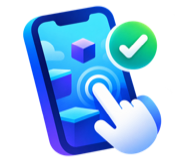
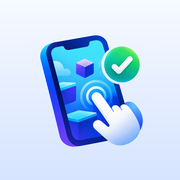
PlayGuard

diff --git a/apps/lab-console/src/i18n.tsx b/apps/lab-console/src/i18n.tsx
@@ -513,7 +513,7 @@ const en = {
   "help.team.title": "How to give colleagues access",
   "help.team.body": "Start the lab on one computer with “npm start” or the PlayGuard shortcut. A link appears in Settings → Team: send it to colleagues on the same Wi-Fi. They install nothing.\n\nThe history and reports are shared. AI keys, the depth of the checks and clearing the history are changed only by the person running the lab.",
   "help.storage.title": "Where the history is kept, and how to clear it",
-  "help.storage.body": "Reports, recordings and uploaded files are in the project folder on the computer that runs the lab. Settings → Storage shows how much they take, and deletes checks older than 30 days or everything.\n\nA single report is deleted in Reports, an archive in Builds, a recording in Recordings.",
+  "help.storage.body": "Reports, recordings and uploaded files are in the project folder on the computer that runs the lab. Settings → Storage shows how much they take, and deletes checks older than 30 days or everything.\n\nA single report is deleted in Reports, an archive in Builds.",
   "help.names.title": "Glossary",
   "help.names.body": "• Playable — an interactive ad, a small game in one HTML file or a ZIP.\n• Build — the version of a playable for one ad network.\n• Playthrough (recording) — one play of the playable that the lab repeats on other screens.\n• Install button (CTA) — the button that opens the app store.\n• Ad network — AppLovin, Unity, Meta, Google and others, each with its own rules.",
   "scope.title": "What to check",
@@ -683,6 +683,13 @@ const en = {
   "depth.wasQuick": "This was a quick check: stress, languages and old phones were not checked.",
   "depth.runFull": "Check fully before the release",
   "settings.depth.onlyFull": "Stress, languages and old phones run only in a full check (“Full, before a release”, chosen on step 2). A quick check before sending does the main screens only.",
+  "app.install.title": "PlayGuard as an app",
+  "app.install.text": "Install it and PlayGuard opens in its own window, with its icon in the Dock or the taskbar, like any program.",
+  "app.install.go": "Install PlayGuard",
+  "app.install.done": "Installed: PlayGuard opens as an app from the Dock or the Start menu.",
+  "app.install.manual": "In Chrome or Edge: the menu (⋮) → “Cast, save and share” → “Install page as app”, or the install icon at the right of the address bar.",
+  "app.install.safari": "In Safari: File → Add to Dock.",
+  "app.install.insecure": "Browsers install apps only from the computer that runs PlayGuard (address localhost), not over the office network. Install it there, or open the site in a tab here.",
   "error.UNKNOWN.advice": "Try again. If it repeats, send the technical details to a developer.",
 
   "check.size": "File size",
@@ -1255,7 +1262,7 @@ const ru: Record<Key, string> = {
   "help.team.title": "Как дать доступ коллегам",
   "help.team.body": "Программу достаточно запустить на одном компьютере командой «npm start» или ярлыком PlayGuard. В «Настройки → Команда» появится ссылка — отправьте её коллегам в той же сети Wi-Fi. Им ничего не нужно устанавливать.\n\nИстория и отчёты общие. Ключи AI, глубину проверки и очистку истории меняет только тот, у кого запущена программа.",
   "help.storage.title": "Где хранится история и как её очистить",
-  "help.storage.body": "Отчёты, записи и загруженные файлы лежат в папке проекта на компьютере, где запущена программа. Сколько они занимают, видно в «Настройки → Хранилище». Там же можно удалить проверки старше 30 дней или очистить всё.\n\nОтдельный отчёт удаляется в «Отчёты», архив — в «Сборки», запись — в «Записи».",
+  "help.storage.body": "Отчёты, записи и загруженные файлы лежат в папке проекта на компьютере, где запущена программа. Сколько они занимают, видно в «Настройки → Хранилище». Там же можно удалить проверки старше 30 дней или очистить всё.\n\nОтдельный отчёт удаляется в «Отчёты», архив — в «Сборки».",
   "help.names.title": "Словарь",
   "help.names.body": "• Плеебл — интерактивная реклама-мини-игра, один HTML-файл или ZIP.\n• Сборка — версия плеебла для одной рекламной сети.\n• Прохождение (запись) — одно прохождение плеебла, которое программа повторяет на других экранах.\n• Кнопка установки (CTA) — кнопка, которая открывает магазин приложений.\n• Рекламная сеть — AppLovin, Unity, Meta, Google и другие: у каждой свои правила.",
   "scope.title": "Что проверять",
@@ -1425,6 +1432,13 @@ const ru: Record<Key, string> = {
   "depth.wasQuick": "Это была быстрая проверка: устойчивость, языки и старые телефоны не проверялись.",
   "depth.runFull": "Проверить полностью перед релизом",
   "settings.depth.onlyFull": "Устойчивость, языки и старые телефоны проверяются только в полной проверке («Полно перед релизом», выбирается на шаге 2). Быстрая проверка перед отправкой проходит только основные экраны.",
+  "app.install.title": "PlayGuard как приложение",
+  "app.install.text": "После установки PlayGuard открывается в своём окне, с иконкой в Dock или на панели задач, как обычная программа.",
+  "app.install.go": "Установить PlayGuard",
+  "app.install.done": "Установлено: PlayGuard открывается как приложение из Dock или меню «Пуск».",
+  "app.install.manual": "В Chrome или Edge: меню (⋮) → «Трансляция, сохранение и отправка» → «Установить страницу как приложение», или значок установки справа в адресной строке.",
+  "app.install.safari": "В Safari: «Файл» → «Добавить в Dock».",
+  "app.install.insecure": "Браузеры устанавливают приложения только на компьютере, где запущен PlayGuard (адрес localhost), а не по офисной сети. Установите его там или пользуйтесь сайтом во вкладке.",
   "error.UNKNOWN.advice": "Попробуйте ещё раз. Если повторится, отправьте технические детали разработчику.",
 
   "check.size": "Размер файла",
@@ -1995,7 +2009,7 @@ const fr: Record<Key, string> = {
   "help.team.title": "Donner l'accès aux collègues",
   "help.team.body": "Lancez le lab sur un ordinateur avec « npm start » ou le raccourci PlayGuard. Un lien apparaît dans Réglages → Équipe : envoyez-le aux collègues sur le même Wi-Fi. Ils n'installent rien.\n\nL'historique et les rapports sont partagés. Les clés IA, la profondeur des vérifications et l'effacement de l'historique ne se règlent que sur l'ordinateur qui exécute le lab.",
   "help.storage.title": "Où est gardé l'historique, et comment l'effacer",
-  "help.storage.body": "Rapports, enregistrements et fichiers envoyés sont dans le dossier du projet, sur l'ordinateur qui exécute le lab. Réglages → Stockage montre la place prise et supprime les vérifications de plus de 30 jours, ou tout.\n\nUn rapport se supprime dans Rapports, une archive dans Builds, un enregistrement dans Enregistrements.",
+  "help.storage.body": "Rapports, enregistrements et fichiers envoyés sont dans le dossier du projet, sur l'ordinateur qui exécute le lab. Réglages → Stockage montre la place prise et supprime les vérifications de plus de 30 jours, ou tout.\n\nUn rapport se supprime dans Rapports, une archive dans Builds.",
   "help.names.title": "Glossaire",
   "help.names.body": "• Playable — une publicité interactive, un petit jeu dans un fichier HTML ou un ZIP.\n• Build — la version d'un playable pour un réseau publicitaire.\n• Partie (enregistrement) — une partie du playable que le lab rejoue sur d'autres écrans.\n• Bouton d'installation (CTA) — le bouton qui ouvre le store.\n• Réseau publicitaire — AppLovin, Unity, Meta, Google et d'autres, chacun avec ses règles.",
   "scope.title": "Quoi vérifier",
@@ -2165,6 +2179,13 @@ const fr: Record<Key, string> = {
   "depth.wasQuick": "C'était une vérification rapide : robustesse, langues et anciens téléphones n'ont pas été vérifiés.",
   "depth.runFull": "Vérifier complètement avant la sortie",
   "settings.depth.onlyFull": "Robustesse, langues et anciens téléphones ne tournent que dans une vérification complète (« Complète, avant la sortie », choisie à l'étape 2). Une vérification rapide avant l'envoi ne fait que les écrans principaux.",
+  "app.install.title": "PlayGuard comme application",
+  "app.install.text": "Une fois installé, PlayGuard s'ouvre dans sa propre fenêtre, avec son icône dans le Dock ou la barre des tâches, comme tout programme.",
+  "app.install.go": "Installer PlayGuard",
+  "app.install.done": "Installé : PlayGuard s'ouvre comme une application depuis le Dock ou le menu Démarrer.",
+  "app.install.manual": "Dans Chrome ou Edge : menu (⋮) → « Caster, enregistrer et partager » → « Installer la page en tant qu'application », ou l'icône d'installation à droite de la barre d'adresse.",
+  "app.install.safari": "Dans Safari : Fichier → Ajouter au Dock.",
+  "app.install.insecure": "Les navigateurs n'installent des applications que depuis l'ordinateur qui exécute PlayGuard (adresse localhost), pas via le réseau du bureau. Installez-le là-bas, ou utilisez le site dans un onglet.",
   "error.UNKNOWN.advice": "Réessayez. Si cela se reproduit, envoyez les détails techniques à un développeur.",
 
   "check.size": "Taille du fichier",

diff --git a/apps/lab-console/src/SettingsView.tsx b/apps/lab-console/src/SettingsView.tsx
@@ -9,6 +9,8 @@ import { Hint } from "./Hint";
 import { ConfirmDialog } from "./Dialogs";
 import { DEVICE_CATALOG, FORMAT_SET, platformOf } from "@playable-lab/device-catalog";
 import { LANGS, useI18n } from "./i18n";
+import { install, installState, onInstallChange } from "./install";
+import type { InstallState } from "./install";
 import { chime, finishSoundOn, mascotHidden, setFinishSound, setMascotHidden } from "./mascotBus";
 import { getName, setName } from "./identity";
 import { applyTheme, getTheme } from "./theme";
@@ -220,6 +222,35 @@ const LanguagesBlock = ({
       )}
       <p className="hint">{t("scope.languages.hint", { n: languages.chosen.length + 1 })}</p>
     </>
+  );
+};
+
+/** PlayGuard as an app on this computer: its own window, its own icon in the Dock or the taskbar. */
+const AppSection = () => {
+  const { t } = useI18n();
+  const [state, setState] = useState<InstallState>(installState);
+  useEffect(() => onInstallChange(() => setState(installState())), []);
+  const safari = /^((?!chrome|android|crios|fxios).)*safari/i.test(navigator.userAgent);
+  return (
+    <section className="app-install">
+      <h2>{t("app.install.title")}</h2>
+      <div className="app-install-row">
+        <img src="/icon-192.png" alt="" width={56} height={56} />
+        <div>
+          {state === "installed" && <p className="hint">✓ {t("app.install.done")}</p>}
+          {state === "ready" && (
+            <>
+              <p className="hint">{t("app.install.text")}</p>
+              <button className="primary" onClick={() => void install().then(() => setState(installState()))}>
+                {t("app.install.go")}
+              </button>
+            </>
+          )}
+          {state === "manual" && <p className="hint">{safari ? t("app.install.safari") : t("app.install.manual")}</p>}
+          {state === "insecure" && <p className="hint">{t("app.install.insecure")}</p>}
+        </div>
+      </div>
+    </section>
   );
 };
 
@@ -524,6 +555,7 @@ export const SettingsView = ({ settings, onSettings, health, onInstall, onTour, 
 
           <YouSection />
 
+          <AppSection />
           <ThemeSection />
           <MascotSection />
 

diff --git a/apps/lab-console/src/install.ts b/apps/lab-console/src/install.ts
@@ -1,0 +1,57 @@
+/**
+ * PlayGuard as an app with its own window and icon. The browser offers the
+ * install once the page qualifies; the offer is kept here until someone asks.
+ */
+interface InstallPrompt extends Event {
+  prompt: () => Promise<void>;
+  userChoice: Promise<{ outcome: "accepted" | "dismissed" }>;
+}
+
+let offer: InstallPrompt | null = null;
+const listeners = new Set<() => void>();
+const changed = (): void => listeners.forEach((listener) => listener());
+
+export type InstallState = "installed" | "ready" | "manual" | "insecure";
+
+export const installState = (): InstallState => {
+  if (window.matchMedia?.("(display-mode: standalone)").matches || (navigator as { standalone?: boolean }).standalone) {
+    return "installed";
+  }
+  if (offer) {
+    return "ready";
+  }
+  // Browsers install only from localhost or https: a teammate on the office address cannot.
+  return window.isSecureContext ? "manual" : "insecure";
+};
+
+export const onInstallChange = (listener: () => void): (() => void) => {
+  listeners.add(listener);
+  return () => listeners.delete(listener);
+};
+
+export const install = async (): Promise<boolean> => {
+  if (!offer) {
+    return false;
+  }
+  const current = offer;
+  offer = null;
+  await current.prompt();
+  const choice = await current.userChoice;
+  changed();
+  return choice.outcome === "accepted";
+};
+
+export const startInstall = (): void => {
+  window.addEventListener("beforeinstallprompt", (event) => {
+    event.preventDefault();
+    offer = event as InstallPrompt;
+    changed();
+  });
+  window.addEventListener("appinstalled", () => {
+    offer = null;
+    changed();
+  });
+  if ("serviceWorker" in navigator && window.isSecureContext) {
+    void navigator.serviceWorker.register("/sw.js").catch(() => undefined);
+  }
+};

diff --git a/apps/lab-console/src/App.tsx b/apps/lab-console/src/App.tsx
@@ -47,15 +47,18 @@ const NAV: Array<{ id: View; icon: JSX.Element }> = [
       </svg>
     ),
   },
-  {
-    id: "traces",
-    icon: (
-      <svg viewBox="0 0 20 20" aria-hidden="true">
-        <circle cx="10" cy="10" r="7" fill="none" stroke="currentColor" strokeWidth="1.6" />
-        <circle cx="10" cy="10" r="3.2" fill="currentColor" />
-      </svg>
-    ),
-  },
+  // Recordings are turned off: the wizard records, checks and keeps them by itself,
+  // and a separate list of raw recordings only confused the team. To bring it
+  // back, uncomment this entry (the view below and TracesView are kept).
+  // {
+  //   id: "traces",
+  //   icon: (
+  //     <svg viewBox="0 0 20 20" aria-hidden="true">
+  //       <circle cx="10" cy="10" r="7" fill="none" stroke="currentColor" strokeWidth="1.6" />
+  //       <circle cx="10" cy="10" r="3.2" fill="currentColor" />
+  //     </svg>
+  //   ),
+  // },
   {
     id: "reports",
     icon: (
@@ -89,7 +92,11 @@ export const App = () => {
   const { t, lang, setLang } = useI18n();
   const langIndex = LANGS.findIndex((item) => item.id === lang);
   const nextLang = LANGS[(langIndex + 1) % LANGS.length];
-  const [view, setView] = useState<View>("check");
+  const [view, setView] = useState<View>(() => {
+    // The app's shortcuts (right click on its icon) open a view directly.
+    const asked = new URLSearchParams(window.location.search).get("view");
+    return asked === "reports" || asked === "builds" || asked === "settings" || asked === "help" ? asked : "check";
+  });
   const [flow, setFlow] = useState<Flow>(loadFlow);
   const [reportDir, setReportDir] = useState<string | null>(null);
   const [batchId, setBatchId] = useState<string | null>(null);

diff --git a/apps/lab-console/public/sw.js b/apps/lab-console/public/sw.js
@@ -1,0 +1,21 @@
+// PlayGuard as an app: nothing is cached, so the page is never out of date.
+// Only when the lab itself is not running does the window say so plainly,
+// instead of the browser's own error page.
+self.addEventListener("install", () => self.skipWaiting());
+self.addEventListener("activate", (event) => event.waitUntil(self.clients.claim()));
+
+const OFFLINE = `<!DOCTYPE html><html><head><meta charset="utf-8"><meta name="viewport" content="width=device-width,initial-scale=1"><title>PlayGuard</title></head>
+<body style="margin:0;display:grid;place-items:center;min-height:100vh;background:#0d1117;color:#e6ebf2;font:16px system-ui,sans-serif;text-align:center">
+<div style="max-width:34ch;padding:24px"><img src="/icon-192.png" width="96" height="96" alt="" style="border-radius:22px">
+<h1 style="font-size:20px">PlayGuard is not running</h1>
+<p style="color:#94a1b2">Start it on the computer that runs the lab (PlayGuard.command or PlayGuard.bat), then reload.<br><br>PlayGuard не запущен. Запустите его на компьютере с программой и обновите страницу.</p>
+<button onclick="location.reload()" style="font:inherit;padding:10px 18px;border-radius:10px;border:0;background:#1e5bff;color:#fff">Reload · Обновить</button></div></body></html>`;
+
+self.addEventListener("fetch", (event) => {
+  if (event.request.mode !== "navigate") {
+    return;
+  }
+  event.respondWith(
+    fetch(event.request).catch(() => new Response(OFFLINE, { headers: { "Content-Type": "text/html; charset=utf-8" } }))
+  );
+});

diff --git a/tests/site.e2e.ts b/tests/site.e2e.ts
@@ -227,7 +227,8 @@ describe("PlayGuard site", { timeout: 600000 }, () => {
     const { context, page } = await teammate({ viewport: { width: 375, height: 812 } });
     await page.goto(HUB);
     await dismissSetup(page);
-    for (const view of ["Check", "Builds", "Recordings", "Reports", "Help", "Settings"]) {
+    assert.equal(await page.getByRole("button", { name: "Recordings", exact: true }).count(), 0, "the Recordings tab is turned off");
+    for (const view of ["Check", "Builds", "Reports", "Help", "Settings"]) {
       const tab = page.getByRole("button", { name: view, exact: true });
       if (await tab.isVisible().catch(() => false)) {
         await tab.click();

diff --git a/apps/lab-console/src/styles.css b/apps/lab-console/src/styles.css
@@ -2146,3 +2146,8 @@ button.share-item { text-align: left; font: inherit; cursor: pointer; }
 }
 .depth { width: 100%; box-sizing: border-box; }
 .depth-option { min-width: 0; white-space: normal; }
+.app-install-row { display: flex; align-items: center; gap: 14px; }
+.app-install-row img { border-radius: 14px; box-shadow: var(--shadow-soft); flex: none; }
+.app-install-row .hint { margin: 0 0 8px; }
+/* In its own window the app has no browser bar: give the top a little room. */
+@media (display-mode: standalone) { .rail { padding-top: max(10px, env(titlebar-area-height, 0px)); } }

diff --git a/apps/lab-console/index.html b/apps/lab-console/index.html
@@ -6,6 +6,10 @@
     <title>PlayGuard</title>
     <link rel="icon" type="image/png" href="/favicon.png" />
     <link rel="apple-touch-icon" href="/apple-touch-icon.png" />
+    <link rel="manifest" href="/manifest.webmanifest" />
+    <meta name="theme-color" content="#1e5bff" />
+    <meta name="apple-mobile-web-app-title" content="PlayGuard" />
+    <meta name="application-name" content="PlayGuard" />
   </head>
   <body>
     <div id="root"></div>

diff --git a/apps/lab-console/src/main.tsx b/apps/lab-console/src/main.tsx
@@ -4,8 +4,10 @@ import { App } from "./App";
 import { I18nProvider } from "./i18n";
 import "./styles.css";
 import { applyTheme, getTheme } from "./theme";
+import { startInstall } from "./install";
 
 applyTheme(getTheme());
+startInstall();
 
 createRoot(document.getElementById("root")!).render(
   <StrictMode>

diff --git a/README.md b/README.md
@@ -78,8 +78,8 @@ The console is a four-step wizard (**Check**):
 4. **Result** — one verdict (ready / needs a look / not ready) with the report
    under it. **Download as one file** packs the report into a zip to send on.
 
-**Builds**, **Recordings** and **Reports** keep the full tables for whoever
-wants them. **Settings** holds the language (Russian / English / French, also the
+**Builds** and **Reports** keep the full tables for whoever wants them
+(the separate Recordings tab is turned off: the wizard keeps recordings by itself). **Settings** holds the language (Russian / English / French, also the
 language of new reports' summary), the AI tester's API keys, and what is
 installed on this computer, with one button to install the browser the checks
 and the report videos need. Keys are written to `.playable-lab/settings.json`

diff --git a/КАК-НАЧАТЬ.md b/КАК-НАЧАТЬ.md
@@ -13,6 +13,8 @@
 
 Окно запуска не закрывайте: пока оно открыто, программа работает у всей команды.
 
+Чтобы PlayGuard открывался как обычная программа, со своей иконкой в Dock или на панели задач: откройте http://localhost:8787 в Chrome или Edge на этом компьютере → «Настройки» → «Установить PlayGuard» (в Safari: «Файл» → «Добавить в Dock»).
+
 ## Если коллега прислал вам ссылку
 
 Откройте ссылку в браузере. Ничего устанавливать не нужно. Компьютер должен быть в той же сети Wi-Fi.
